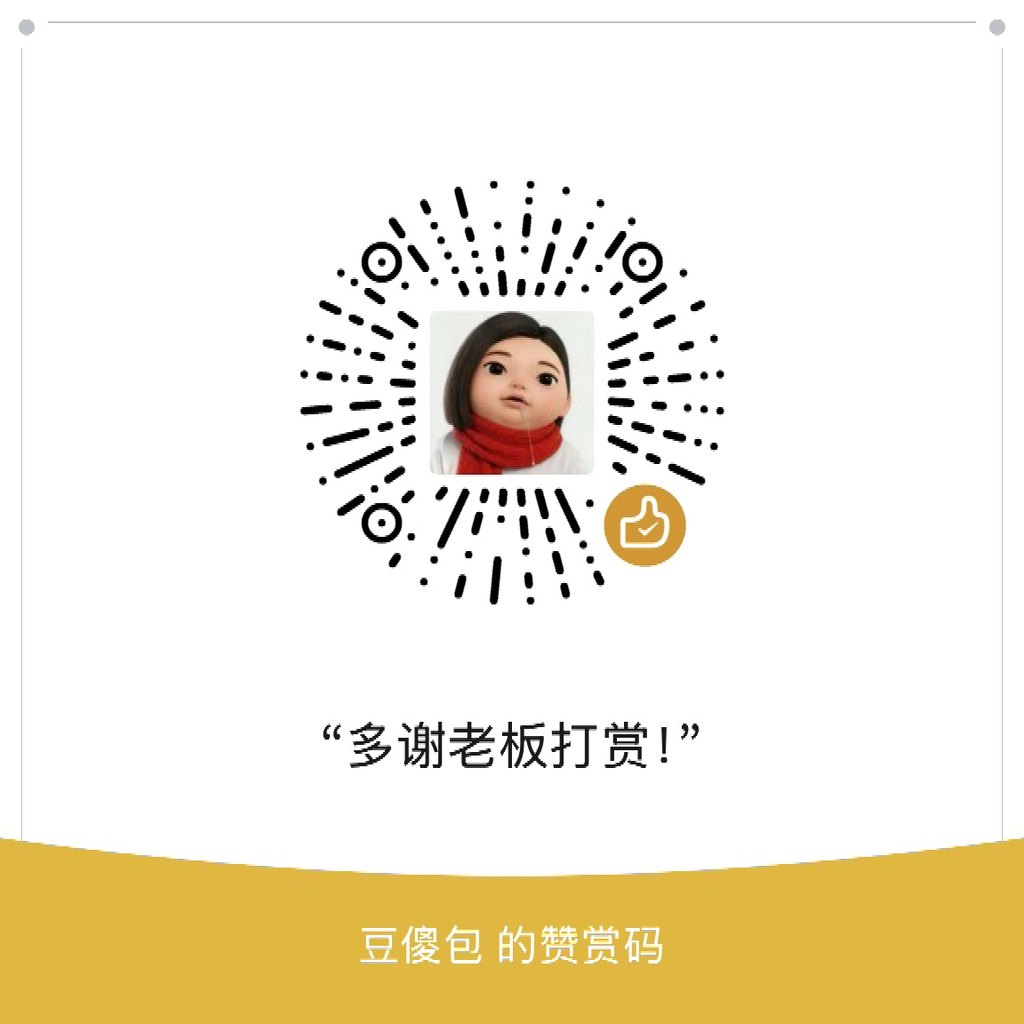
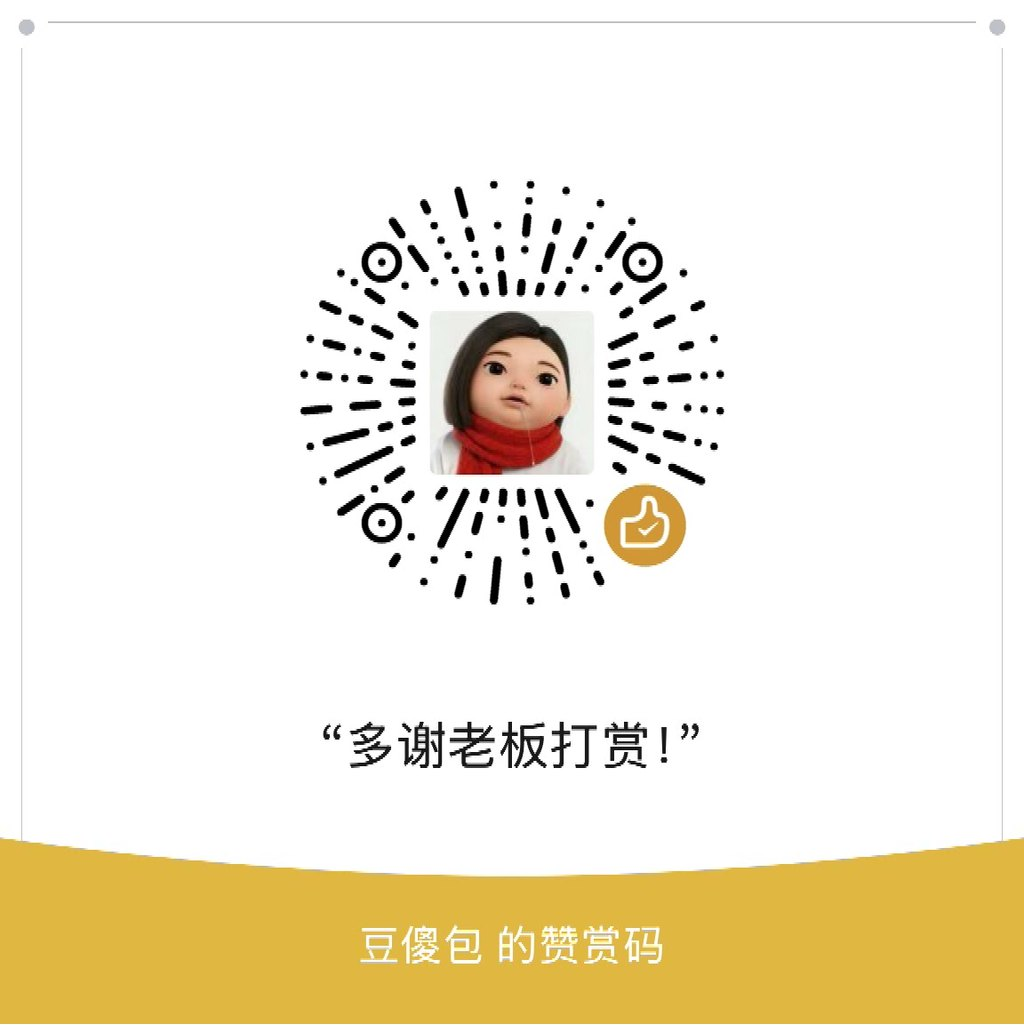
v24b: tip overlay shows full reward card art (uncropped, 1024x1036) without duplicate title; subtitle moved under image

Changed region(s): [[0.2812, 0.1875, 0.7188, 0.5938], [0.0, 0.8125, 1.0, 1.0], [0.3125, 0.6875, 0.6875, 0.75]]

diff --git a/TTSFloat_v20.m b/TTSFloat_v20.m
@@ -882,8 +882,11 @@ static UIImage *TTSLoadBallImage(void) {
     mask.backgroundColor = [UIColor colorWithWhite:0 alpha:0.55];
     self.tipMask = mask;
 
-    CGFloat cw = MIN(320, sc.size.width - 48);
-    CGFloat ch = cw + 86;                       /* 二维码(正方形) + 标题 + 说明 + 关闭 */
+    /* 赞赏码原图 1024×1036（自带"多谢老板打赏！"+ 底部金色署名条）→ 只做等比缩放，不裁切 */
+    CGFloat cw = MIN(320, sc.size.width - 40);
+    CGFloat iw = cw - 16;
+    CGFloat ih = iw * 1036.0 / 1024.0;
+    CGFloat ch = 8 + ih + 34;
     UIView *card = [[UIView alloc] initWithFrame:
         CGRectMake((sc.size.width - cw) / 2, (sc.size.height - ch) / 2, cw, ch)];
     card.tag = 9602;
@@ -892,14 +895,7 @@ static UIImage *TTSLoadBallImage(void) {
     card.layer.masksToBounds = YES;
     [mask addSubview:card];
 
-    UILabel *lt = [[UILabel alloc] initWithFrame:CGRectMake(0, 10, cw, 26)];
-    lt.text = @"多谢老板打赏！";
-    lt.textAlignment = NSTextAlignmentCenter;
-    lt.textColor = UIColor.blackColor;
-    lt.font = [UIFont boldSystemFontOfSize:17];
-    [card addSubview:lt];
-
-    UIImageView *qr = [[UIImageView alloc] initWithFrame:CGRectMake(12, 42, cw - 24, cw - 24)];
+    UIImageView *qr = [[UIImageView alloc] initWithFrame:CGRectMake(8, 8, iw, ih)];
     UIImage *qrImg = [UIImage imageWithData:[NSData dataWithBytes:TTS_RES_TIP length:TTS_RES_TIP_LEN]];
     if (qrImg) {
         qr.image = qrImg;
@@ -910,18 +906,18 @@ static UIImage *TTSLoadBallImage(void) {
     qr.userInteractionEnabled = NO;
     [card addSubview:qr];
 
-    UILabel *sub = [[UILabel alloc] initWithFrame:CGRectMake(0, cw + 46, cw, 18)];
-    sub.text = @"长按识别 · 微信收款码";
+    UILabel *sub = [[UILabel alloc] initWithFrame:CGRectMake(0, 8 + ih + 4, cw, 20)];
+    sub.text = @"微信内长按识别 · 赞赏码";
     sub.textAlignment = NSTextAlignmentCenter;
     sub.textColor = [UIColor colorWithWhite:0.45 alpha:1];
     sub.font = [UIFont systemFontOfSize:12];
     [card addSubview:sub];
 
     UIButton *closeB = [UIButton buttonWithType:UIButtonTypeSystem];
-    closeB.frame = CGRectMake(cw - 42, 6, 36, 30);
+    closeB.frame = CGRectMake(cw - 44, 4, 38, 32);
     [closeB setTitle:@"✕" forState:UIControlStateNormal];
     [closeB setTitleColor:[UIColor colorWithWhite:0.4 alpha:1] forState:UIControlStateNormal];
-    closeB.titleLabel.font = [UIFont boldSystemFontOfSize:18];
+    closeB.titleLabel.font = [UIFont boldSystemFontOfSize:19];
     [closeB addTarget:self action:@selector(closeTip) forControlEvents:UIControlEventTouchUpInside];
     [card addSubview:closeB];
 

diff --git a/TTSFloat_v24.m b/TTSFloat_v24.m
@@ -882,8 +882,11 @@ static UIImage *TTSLoadBallImage(void) {
     mask.backgroundColor = [UIColor colorWithWhite:0 alpha:0.55];
     self.tipMask = mask;
 
-    CGFloat cw = MIN(320, sc.size.width - 48);
-    CGFloat ch = cw + 86;                       /* 二维码(正方形) + 标题 + 说明 + 关闭 */
+    /* 赞赏码原图 1024×1036（自带"多谢老板打赏！"+ 底部金色署名条）→ 只做等比缩放，不裁切 */
+    CGFloat cw = MIN(320, sc.size.width - 40);
+    CGFloat iw = cw - 16;
+    CGFloat ih = iw * 1036.0 / 1024.0;
+    CGFloat ch = 8 + ih + 34;
     UIView *card = [[UIView alloc] initWithFrame:
         CGRectMake((sc.size.width - cw) / 2, (sc.size.height - ch) / 2, cw, ch)];
     card.tag = 9602;
@@ -892,14 +895,7 @@ static UIImage *TTSLoadBallImage(void) {
     card.layer.masksToBounds = YES;
     [mask addSubview:card];
 
-    UILabel *lt = [[UILabel alloc] initWithFrame:CGRectMake(0, 10, cw, 26)];
-    lt.text = @"多谢老板打赏！";
-    lt.textAlignment = NSTextAlignmentCenter;
-    lt.textColor = UIColor.blackColor;
-    lt.font = [UIFont boldSystemFontOfSize:17];
-    [card addSubview:lt];
-
-    UIImageView *qr = [[UIImageView alloc] initWithFrame:CGRectMake(12, 42, cw - 24, cw - 24)];
+    UIImageView *qr = [[UIImageView alloc] initWithFrame:CGRectMake(8, 8, iw, ih)];
     UIImage *qrImg = [UIImage imageWithData:[NSData dataWithBytes:TTS_RES_TIP length:TTS_RES_TIP_LEN]];
     if (qrImg) {
         qr.image = qrImg;
@@ -910,18 +906,18 @@ static UIImage *TTSLoadBallImage(void) {
     qr.userInteractionEnabled = NO;
     [card addSubview:qr];
 
-    UILabel *sub = [[UILabel alloc] initWithFrame:CGRectMake(0, cw + 46, cw, 18)];
-    sub.text = @"长按识别 · 微信收款码";
+    UILabel *sub = [[UILabel alloc] initWithFrame:CGRectMake(0, 8 + ih + 4, cw, 20)];
+    sub.text = @"微信内长按识别 · 赞赏码";
     sub.textAlignment = NSTextAlignmentCenter;
     sub.textColor = [UIColor colorWithWhite:0.45 alpha:1];
     sub.font = [UIFont systemFontOfSize:12];
     [card addSubview:sub];
 
     UIButton *closeB = [UIButton buttonWithType:UIButtonTypeSystem];
-    closeB.frame = CGRectMake(cw - 42, 6, 36, 30);
+    closeB.frame = CGRectMake(cw - 44, 4, 38, 32);
     [closeB setTitle:@"✕" forState:UIControlStateNormal];
     [closeB setTitleColor:[UIColor colorWithWhite:0.4 alpha:1] forState:UIControlStateNormal];
-    closeB.titleLabel.font = [UIFont boldSystemFontOfSize:18];
+    closeB.titleLabel.font = [UIFont boldSystemFontOfSize:19];
     [closeB addTarget:self action:@selector(closeTip) forControlEvents:UIControlEventTouchUpInside];
     [card addSubview:closeB];
 
